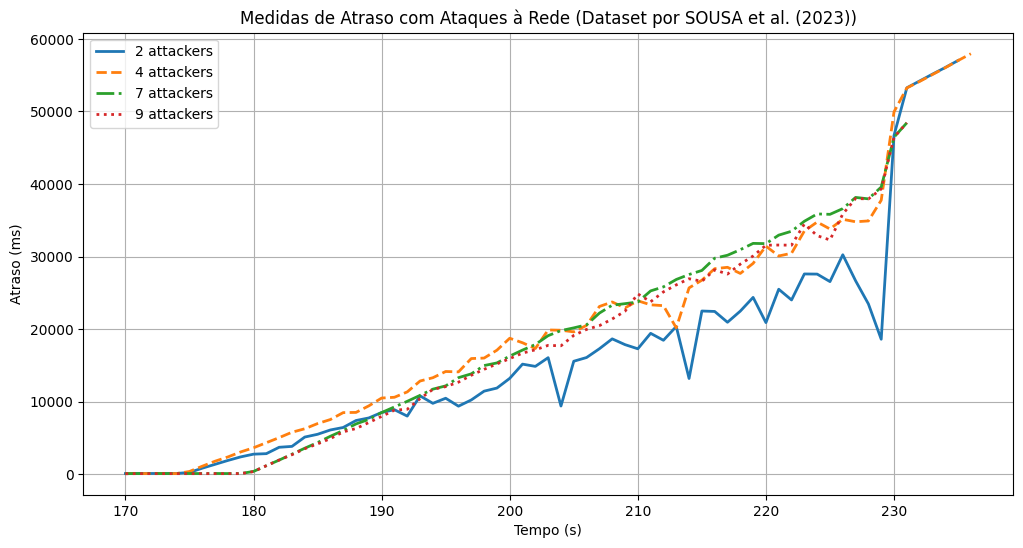
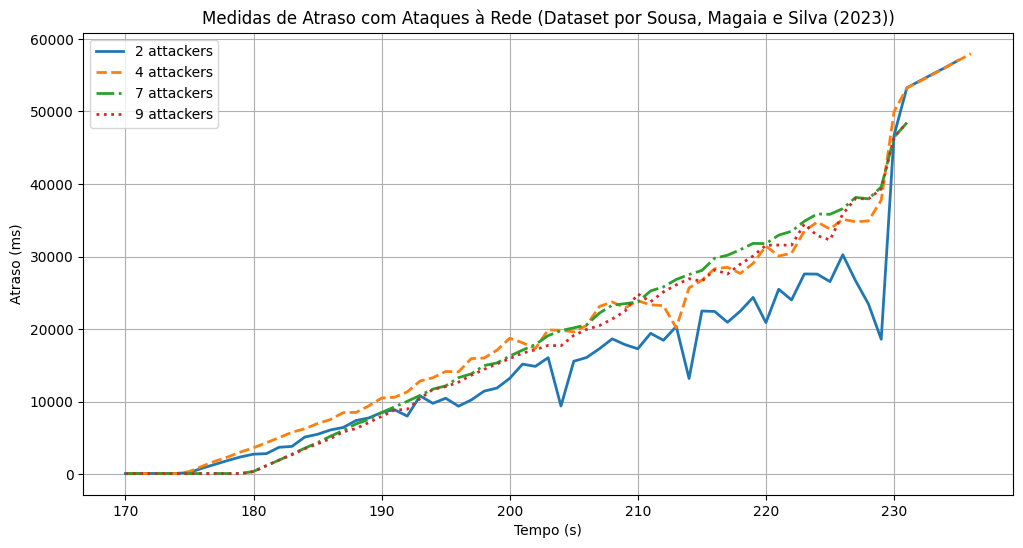
Last corrections

Changed region(s): [[0.2121, 0.0, 0.8788, 0.062]]

diff --git a/src/Main.py b/src/Main.py
@@ -53,7 +53,7 @@ class Main:
             './plots/pdcp_delay_tempo_tcp.png'
         )
 
-        # Dataset por SOUSA et al. (2023)
+        # Dataset por Sousa, Magaia e Silva (2023)
         PlotProcessor.plot_delay(
             [
                 self.collected[2].dataset,
@@ -62,7 +62,7 @@ class Main:
                 self.collected[9].dataset
             ],
             ['2 attackers', '4 attackers', '7 attackers', '9 attackers'],
-            'Medidas de Atraso com Ataques à Rede (Dataset por SOUSA et al. (2023))',
+            'Medidas de Atraso com Ataques à Rede (Dataset por Sousa, Magaia e Silva (2023))',
             './plots/delay_tempo_dataset_attacked.png'
         )
 
@@ -74,7 +74,7 @@ class Main:
                 self.collected[9].dataset
             ],
             ['2 attackers', '4 attackers', '7 attackers', '9 attackers'],
-            'Medidas de Atraso sem Ataques à Rede (Dataset por SOUSA et al. (2023))',
+            'Medidas de Atraso sem Ataques à Rede (Dataset por Sousa, Magaia e Silva (2023))',
             './plots/delay_tempo_dataset_not_attacked.png',
             is_attack=0
         )
@@ -93,7 +93,7 @@ class Main:
             './plots/pdcp_jitter_tempo_tcp.png'
         )
 
-        # Dataset por SOUSA et al. (2023)
+        # Dataset por Sousa, Magaia e Silva (2023)
         PlotProcessor.plot_jitter(
             [
                 self.collected[2].dataset,
@@ -102,7 +102,7 @@ class Main:
                 self.collected[9].dataset
             ],
             ['2 attackers', '4 attackers', '7 attackers', '9 attackers'],
-            'Medidas de $\it{Jitter}$ com Ataques à Rede (Dataset por SOUSA et al. (2023))',
+            'Medidas de $\it{Jitter}$ com Ataques à Rede (Dataset por Sousa, Magaia e Silva (2023))',
             './plots/jitter_tempo_dataset_attacked.png'
         )
 
@@ -114,7 +114,7 @@ class Main:
                 self.collected[9].dataset
             ],
             ['2 attackers', '4 attackers', '7 attackers', '9 attackers'],
-            'Medidas de $\it{Jitter}$ sem Ataques à Rede (Dataset por SOUSA et al. (2023))',
+            'Medidas de $\it{Jitter}$ sem Ataques à Rede (Dataset por Sousa, Magaia e Silva (2023))',
             './plots/jitter_tempo_dataset_not_attacked.png',
             is_attack=0
         )
@@ -145,16 +145,20 @@ class Main:
         PlotProcessor.plot_by_ue(
             [
                 DataProcessor.get_avg_by_second(self.simulated_tcp[30].dataset['rx_pdcp']['delay'],
-                                                self.simulated_tcp[30].dataset['rx_pdcp']['time']),
+                                                self.simulated_tcp[30].dataset['rx_pdcp']['time'],
+                                                1e3),
 
                 DataProcessor.get_avg_by_second(self.simulated_tcp[60].dataset['rx_pdcp']['delay'],
-                                                self.simulated_tcp[60].dataset['rx_pdcp']['time']),
+                                                self.simulated_tcp[60].dataset['rx_pdcp']['time'],
+                                                1e3),
 
                 DataProcessor.get_avg_by_second(self.simulated_tcp[90].dataset['rx_pdcp']['delay'],
-                                                self.simulated_tcp[90].dataset['rx_pdcp']['time']),
+                                                self.simulated_tcp[90].dataset['rx_pdcp']['time'],
+                                                1e3),
 
                 DataProcessor.get_avg_by_second(self.simulated_tcp[120].dataset['rx_pdcp']['delay'],
-                                                self.simulated_tcp[120].dataset['rx_pdcp']['time']),
+                                                self.simulated_tcp[120].dataset['rx_pdcp']['time'],
+                                                1e3),
             ],
             [30, 60, 90, 120],
             'Usuários ativos',

diff --git a/src/processors/DataProcessor.py b/src/processors/DataProcessor.py
@@ -98,7 +98,7 @@ class DataProcessor:
 
     @staticmethod
     def get_packet_loss_ratio(tx_packets, rx_packets):
-        return 1 - (len(rx_packets) / len(tx_packets))
+        return (1 - (len(rx_packets) / len(tx_packets))) * 100
 
     @staticmethod
     def get_not_attacked_packets(data):
